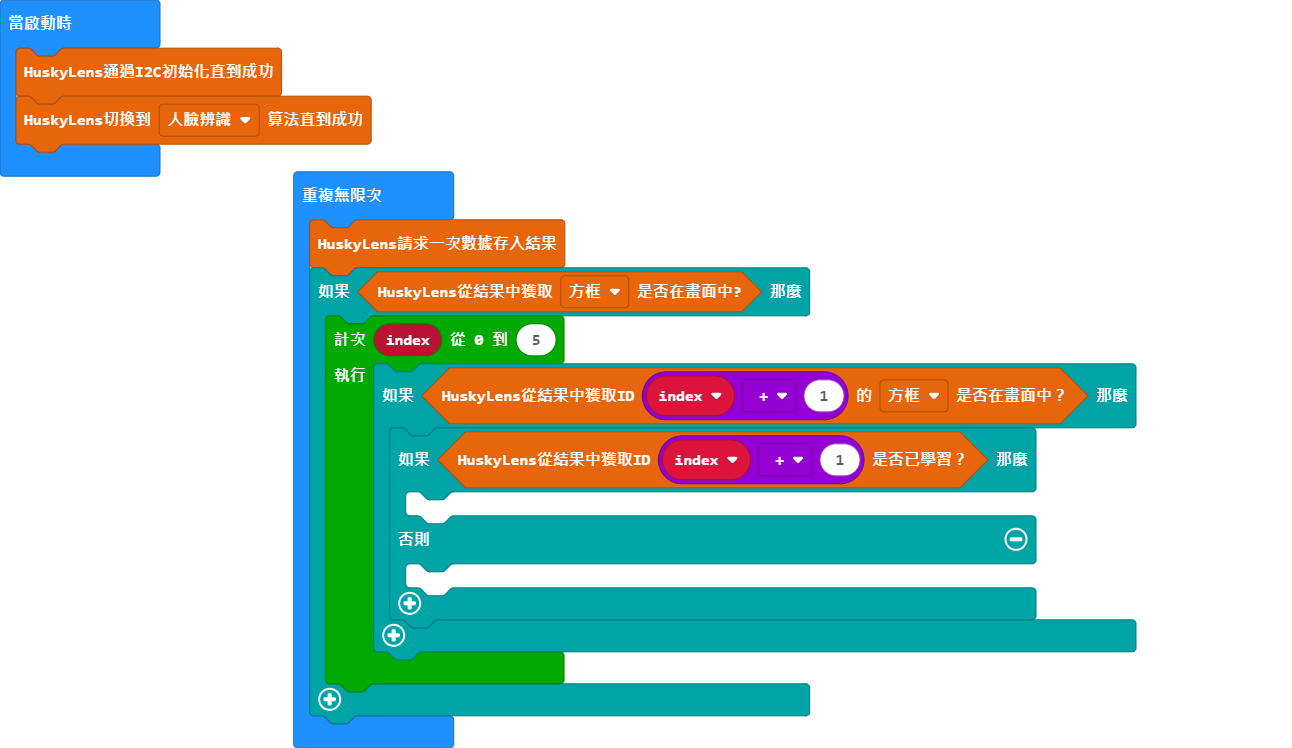
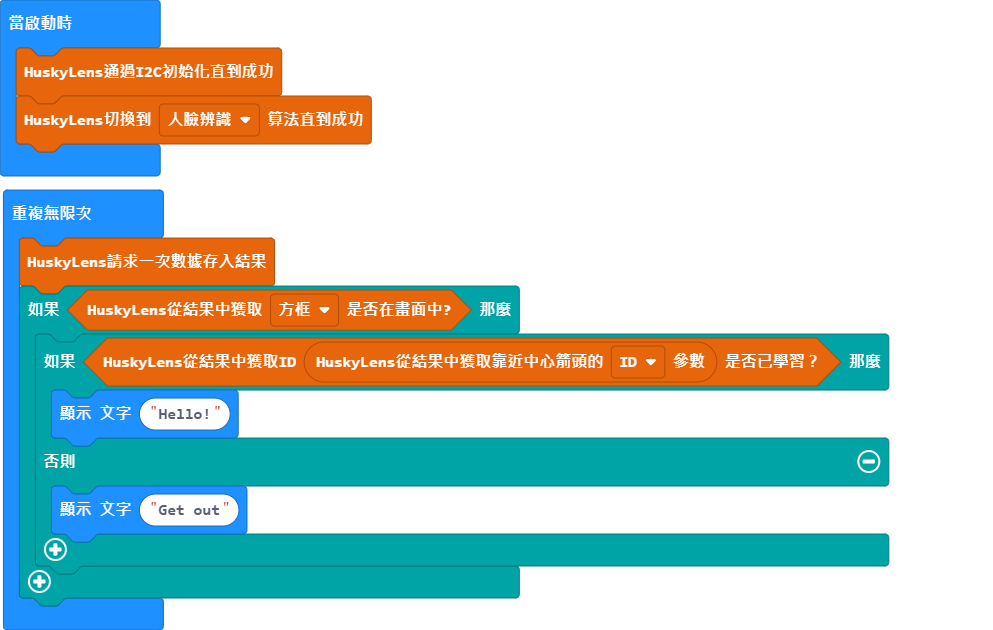
更新 main.blocks, main.ts

diff --git a/main.ts b/main.ts
@@ -3,14 +3,10 @@ huskylens.initMode(protocolAlgorithm.ALGORITHM_FACE_RECOGNITION)
 basic.forever(function () {
     huskylens.request()
     if (huskylens.isAppear_s(HUSKYLENSResultType_t.HUSKYLENSResultBlock)) {
-        for (let index = 0; index <= 5; index++) {
-            if (huskylens.isAppear(index + 1, HUSKYLENSResultType_t.HUSKYLENSResultBlock)) {
-                if (huskylens.isLearned(index + 1)) {
-                	
-                } else {
-                	
-                }
-            }
+        if (huskylens.isLearned(huskylens.readArrow_s(Content4.ID))) {
+            basic.showString("Hello!")
+        } else {
+            basic.showString("Get out")
         }
     }
 })
